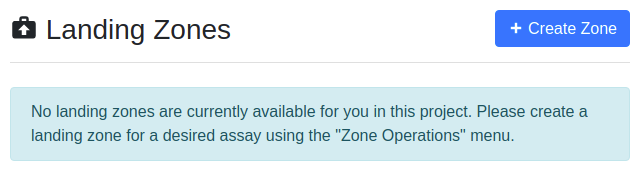
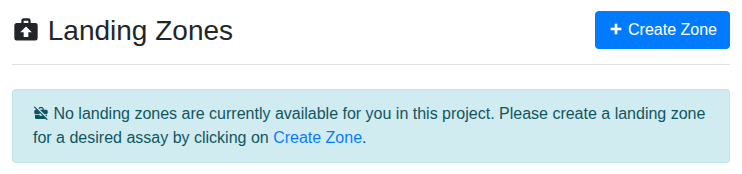
update zone list alert layout (#2158)

diff --git a/landingzones/templates/landingzones/project_zones.html b/landingzones/templates/landingzones/project_zones.html
@@ -39,28 +39,28 @@
 </div>
 
 <div class="container-fluid sodar-page-container"> {# Main container #}
-  <div class="alert alert-danger {% if project_lock %}d-block{% else %}d-none{% endif %}"
-       id="sodar-lz-alert-lock">
+  <div class="alert alert-warning {% if project_lock %}d-block{% else %}d-none{% endif %}"
+       role="alert" id="sodar-lz-alert-lock">
     <i class="iconify" data-icon="mdi:lock"></i>
     This project is locked for landing zone "Validate and Move" operations. You
     need to wait for the ongoing moving operation to finish before starting new
     move jobs.
   </div>
   <div class="alert alert-warning {% if zone_validate_limit %}d-block{% else %}d-none{% endif %}"
-       id="sodar-lz-alert-zone-validate-limit">
+       role="alert" id="sodar-lz-alert-zone-validate-limit">
     <i class="iconify" data-icon="mdi:lock-check"></i>
     The maximum number of ongoing validation jobs for this project has been
     reached. Please wait for ongoing validations to finish before starting new
     validation jobs.
   </div>
-  <div class="alert alert-danger {% if zone_create_limit %}d-block{% else %}d-none{% endif %}"
-       id="sodar-lz-alert-zone-create-limit">
+  <div class="alert alert-warning {% if zone_create_limit %}d-block{% else %}d-none{% endif %}"
+       role="alert" id="sodar-lz-alert-zone-create-limit">
     <i class="iconify" data-icon="mdi:briefcase-variant-off"></i>
     Landing zone creation limit for the project has been reached. Please move or
     delete existing zones before creating new ones.
   </div>
   {% if project.archive %}
-    <div class="alert alert-warning" id="sodar-lz-alert-archive">
+    <div class="alert alert-info" role="alert" id="sodar-lz-alert-archive">
       <i class="iconify" data-icon="mdi:archive"></i>
       Accessing and deleting existing landing zones is permitted. Creating new
       landing zones and moving files into iRODS are not allowed for archived
@@ -73,7 +73,7 @@
       Landing zone operations are disabled for non-superusers on this site.
     </div>
   {% elif not investigation %}
-    <div class="alert alert-danger" role="alert" id="sodar-lz-alert-no-sheets">
+    <div class="alert alert-warning" role="alert" id="sodar-lz-alert-no-sheets">
       <i class="iconify" data-icon="mdi:flask-empty-off"></i>
       No sample sheets are currently set for this project. To create landing
       zones, a person with sufficient project permissions must create or import
@@ -82,7 +82,7 @@
       app.
     </div>
   {% elif investigation and not investigation.irods_status %}
-    <div class="alert alert-danger" role="alert" id="sodar-lz-alert-no-colls">
+    <div class="alert alert-warning" role="alert" id="sodar-lz-alert-no-colls">
       <i class="iconify" data-icon="mdi:database-off"></i>
       iRODS collections for project sample sheets have not been created. A user
       authorized for sample sheet editing must enable iRODS access by selecting

diff --git a/landingzones/templates/landingzones/_prohibit_warning.html b/landingzones/templates/landingzones/_prohibit_warning.html
@@ -1,4 +1,4 @@
-<div class="alert alert-warning" id="sodar-lz-alert-prohibit">
+<div class="alert alert-info" id="sodar-lz-alert-prohibit">
   <i class="iconify" data-icon="mdi:file-lock"></i>
   Certain file types are not allowed to be uploaded in this project. Validation
   will fail if such files are present in a landing zone. Prohibited file types:

diff --git a/landingzones/views.py b/landingzones/views.py
@@ -628,7 +628,7 @@ class ZoneCreateView(
                 and 'sodar_cache' in settings.ENABLED_BACKEND_PLUGINS
             ):
                 msg += ' Collections will be created.'
-            messages.warning(self.request, msg)
+            messages.info(self.request, msg)
         except taskflow.FlowSubmitException as ex:
             messages.error(self.request, str(ex))
         return redirect(
@@ -784,7 +784,7 @@ class ZoneDeleteView(
             return redirect(redirect_url)
         try:
             self.submit_delete(zone)
-            messages.warning(
+            messages.info(
                 self.request,
                 'Landing zone deletion initiated for "{}/{}" in '
                 'assay {}.'.format(
@@ -901,7 +901,7 @@ class ZoneMoveView(
             validate_only = True
         try:
             self.submit_validate_move(zone, validate_only)
-            messages.warning(
+            messages.info(
                 self.request,
                 'Validating {}landing zone, see job progress in the '
                 'zone list.'.format('and moving ' if not validate_only else ''),
